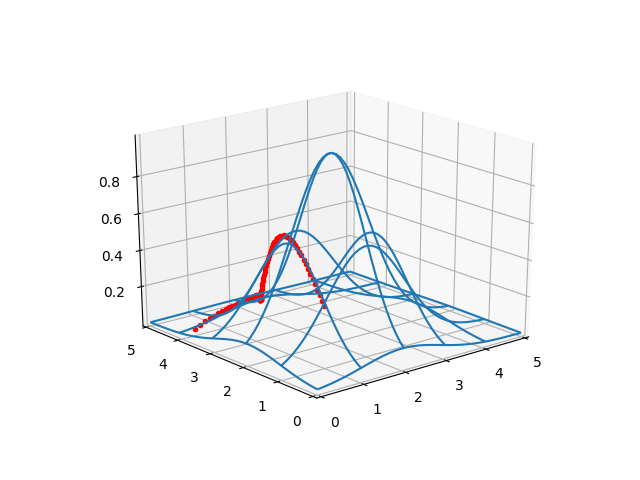
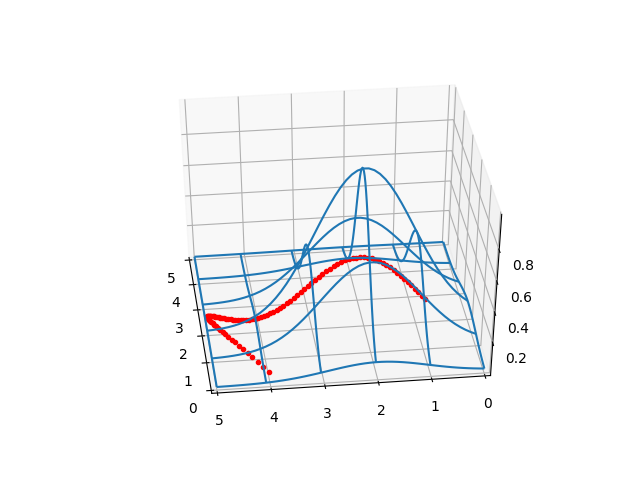
-

diff --git a/calc_multi/calc_multi_40_elev/paths.py b/calc_multi/calc_multi_40_elev/paths.py
@@ -8,7 +8,6 @@ from mpl_toolkits.mplot3d import Axes3D
 from scipy.spatial.distance import cdist
 from matplotlib import cm
 
-
 def trapz(y, dx):
     vals = y[1:-1]
     vals = vals[vals>0.0]
@@ -108,7 +107,7 @@ a1,a2,a3,b1,b2,b3 = res
 a4 = ex - a0 - (a1+a2+a3)
 b4 = ey - b0 - (b1+b2+b3)
 print (a0,a1,a2,a3,a4,b0,b1,b2,b3,b4)
-plot_surf_path(-130,23,a0,a1,a2,a3,a4,b0,b1,b2,b3,b4)
+plot_surf_path(173,40,a0,a1,a2,a3,a4,b0,b1,b2,b3,b4)
 plt.savefig('calc_multi_40_elev_04.png')
 #plt.show()
 
@@ -118,7 +117,7 @@ a1,a2,a3,b1,b2,b3 = res
 a4 = ex - a0 - (a1+a2+a3)
 b4 = ey - b0 - (b1+b2+b3)
 print (a0,a1,a2,a3,a4,b0,b1,b2,b3,b4)
-plot_surf_path(-90,36,a0,a1,a2,a3,a4,b0,b1,b2,b3,b4)
+plot_surf_path(173,40,a0,a1,a2,a3,a4,b0,b1,b2,b3,b4)
 plt.savefig('calc_multi_40_elev_05.png')
 #plt.show()
 
